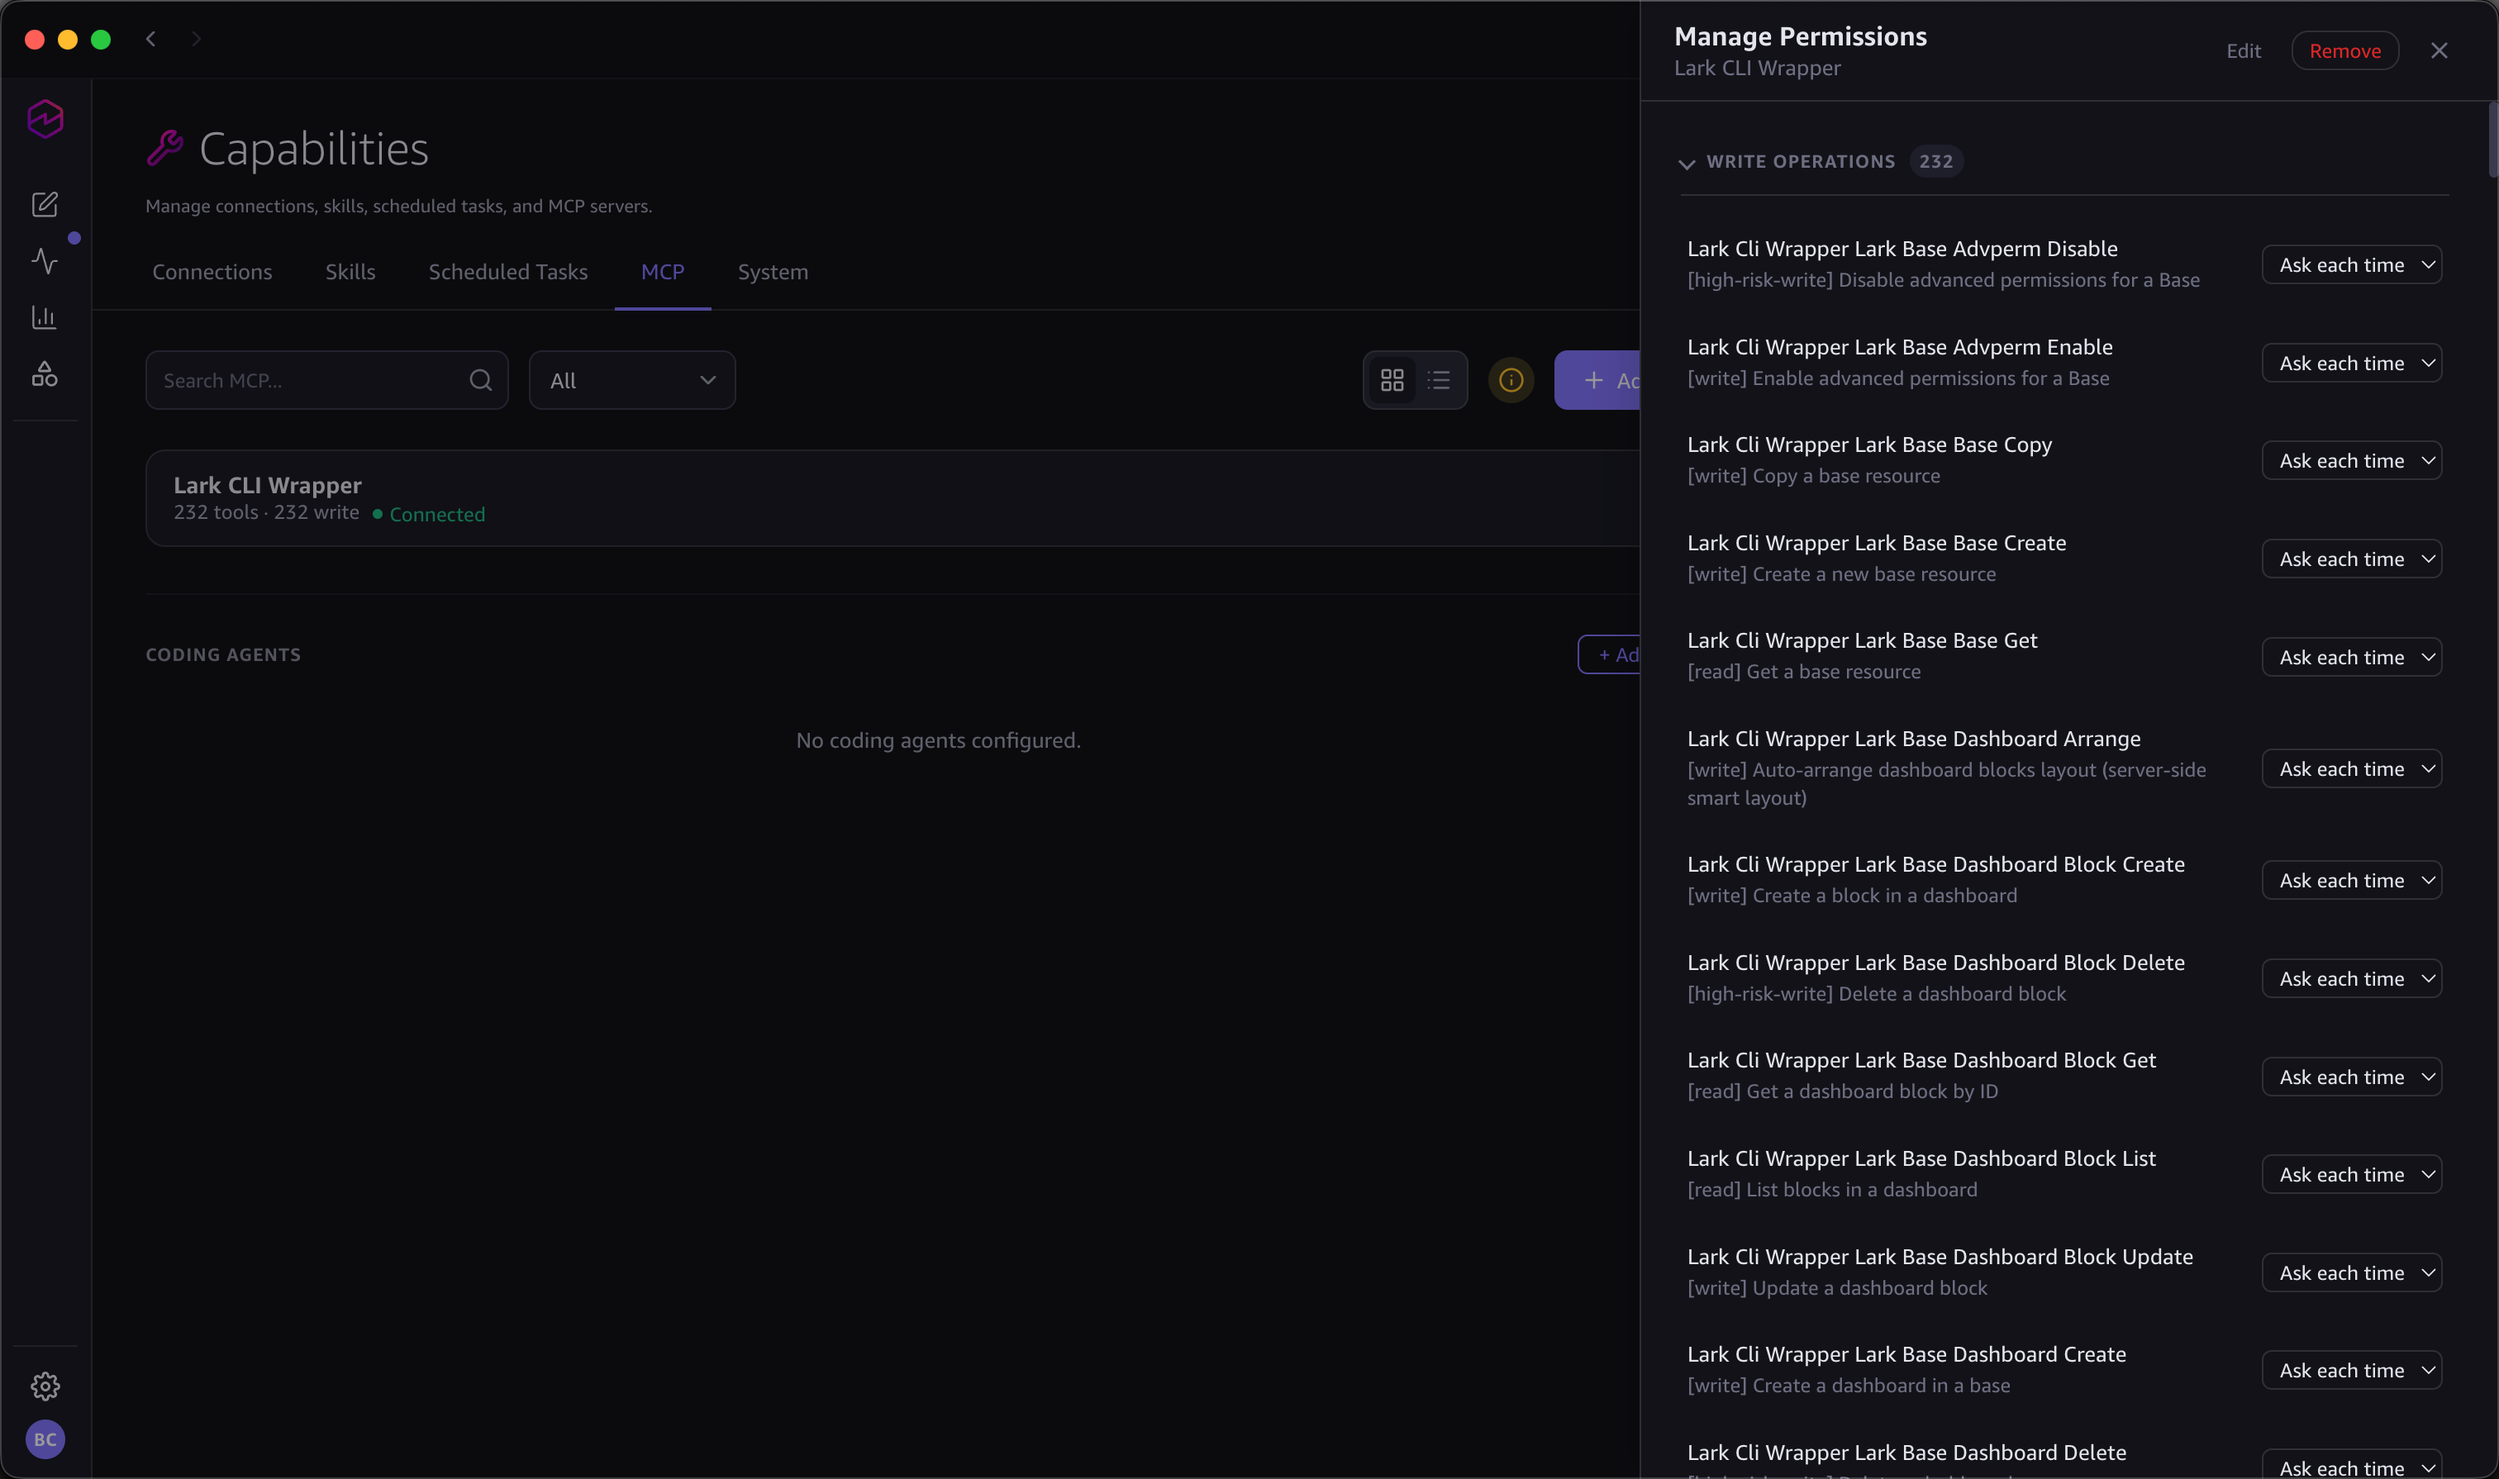
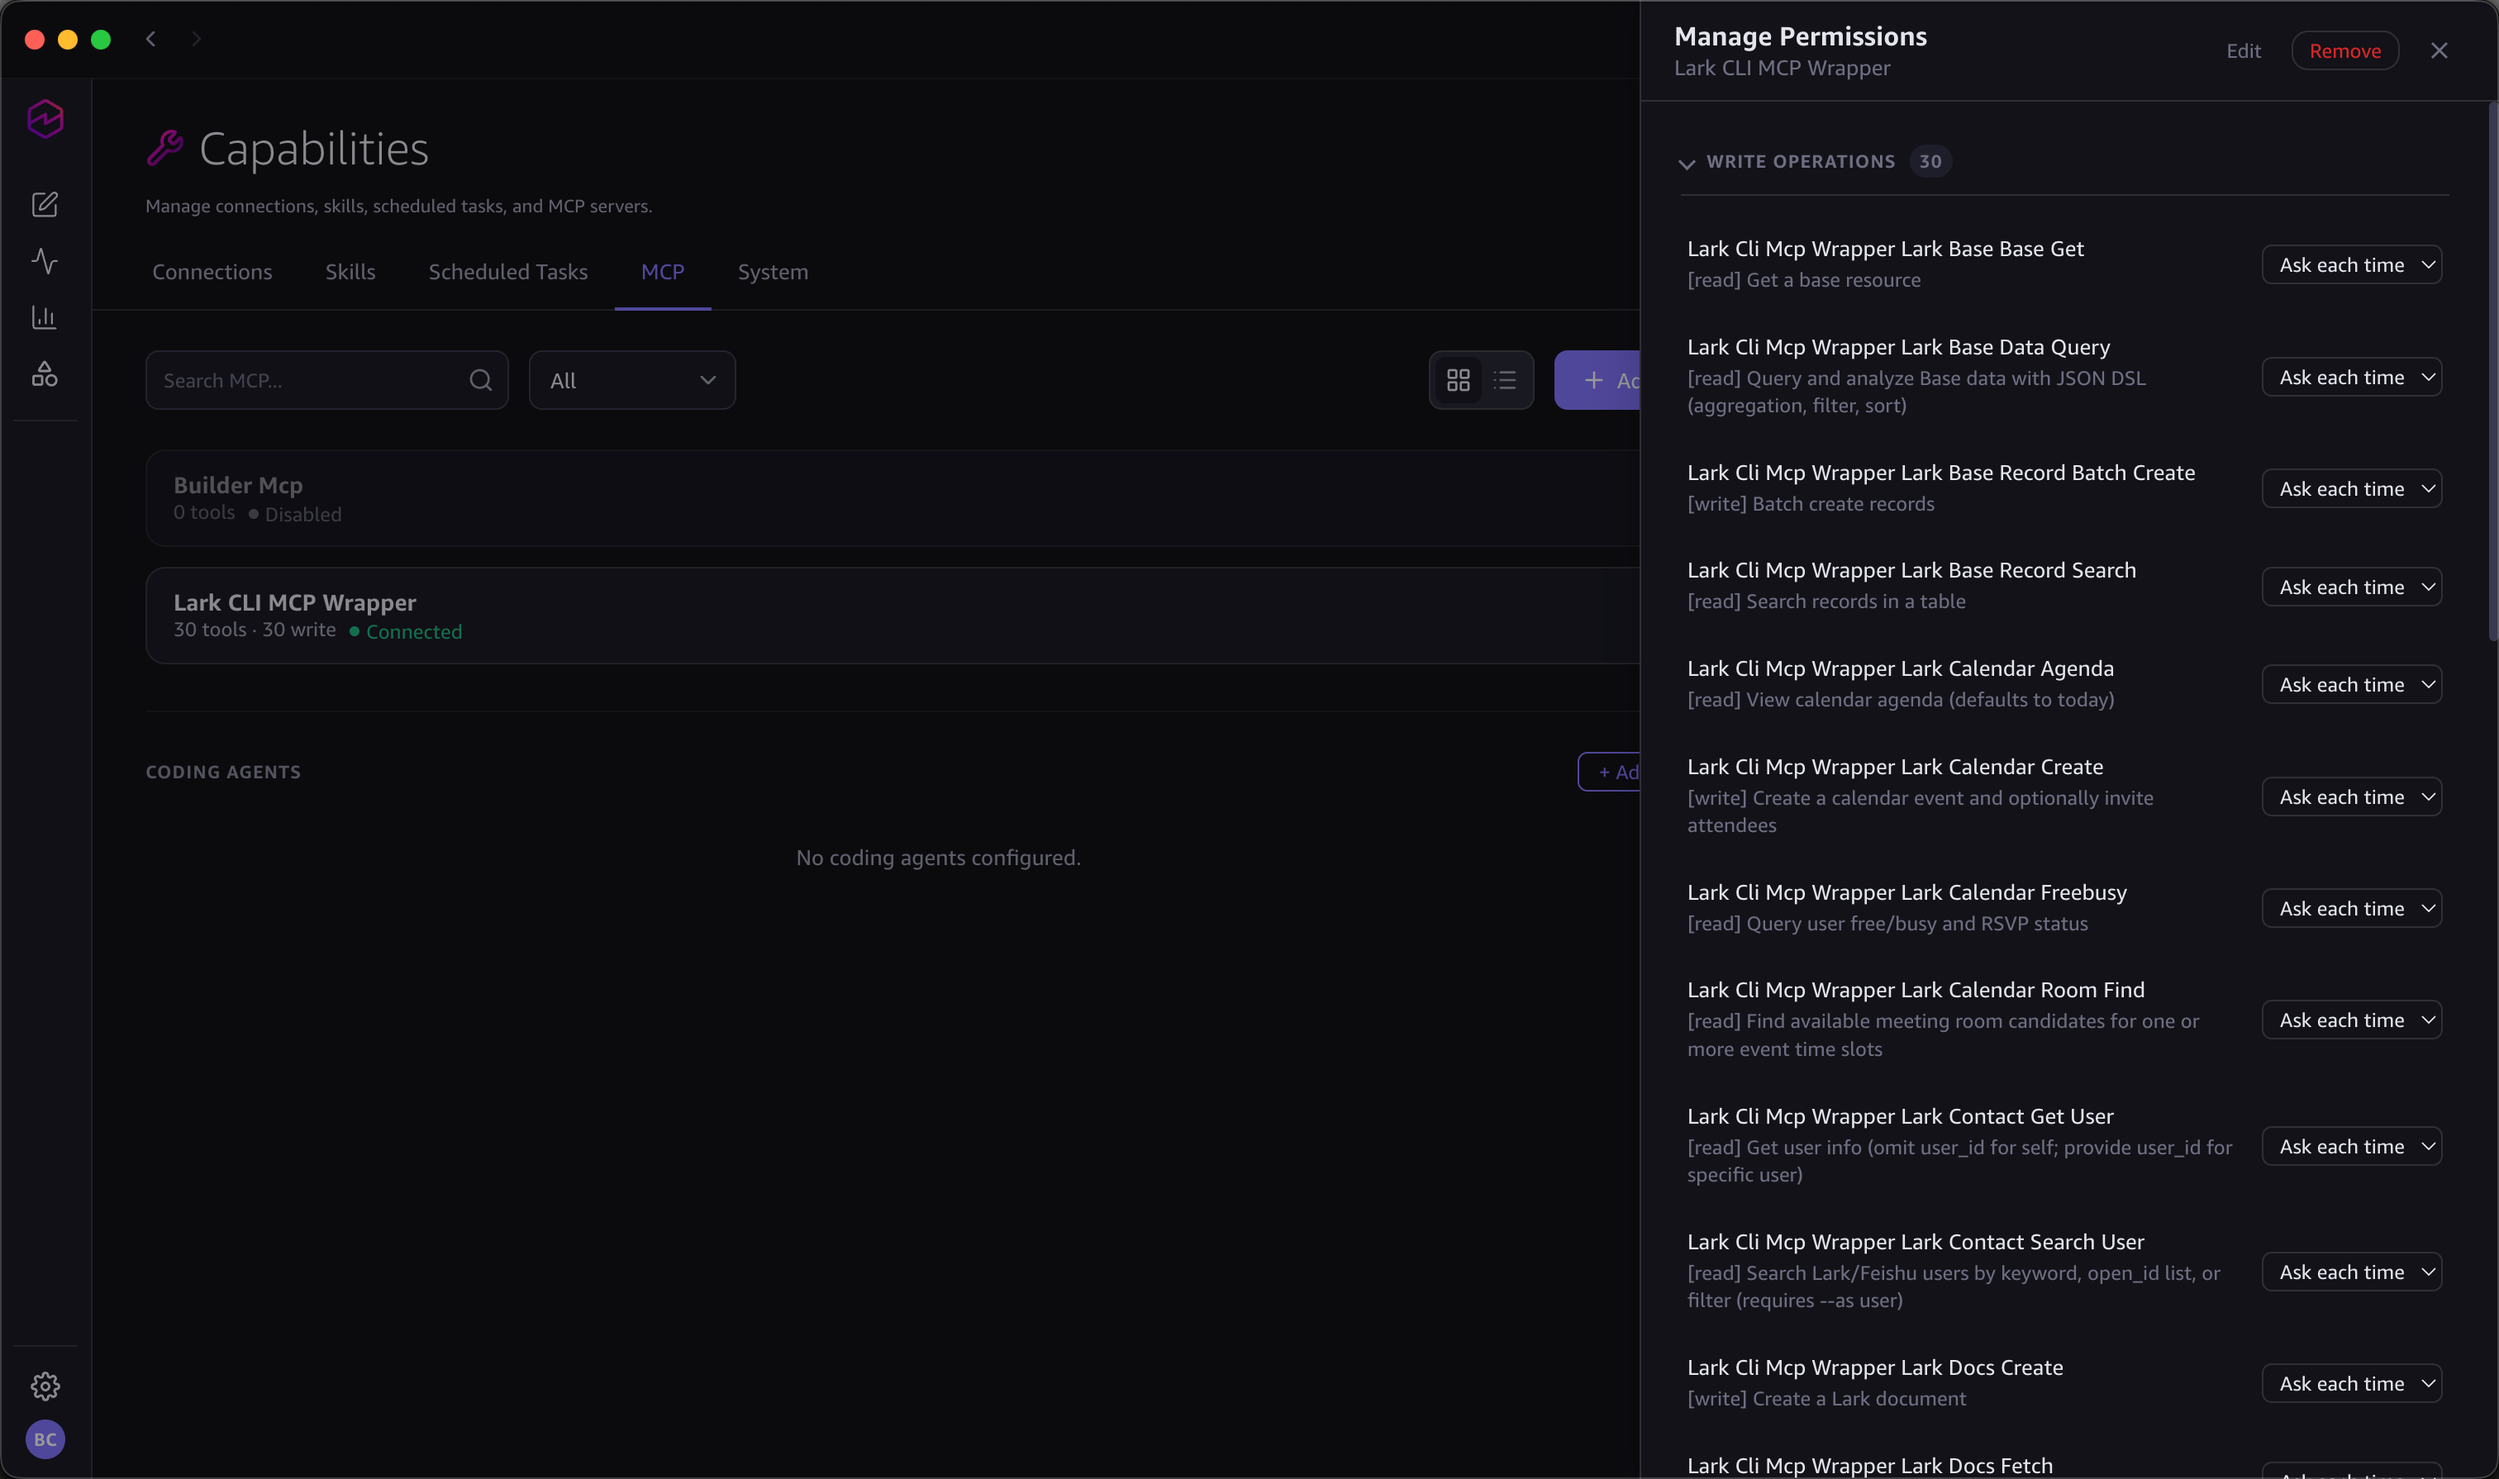
docs: README 适配分层架构 + 安装引导 + 自动适配说明

diff --git a/README.md b/README.md
@@ -1,101 +1,73 @@
 # lark-cli-mcp-wrapper
 
-将 [lark-cli](https://github.com/larksuite/cli) 的 200+ 个命令封装为 [MCP](https://modelcontextprotocol.io/) server，让 [Amazon Quick Desktop](https://aws.amazon.com/quick/desktop/) 等 AI 助手直接操作飞书/Lark。
+将 [lark-cli](https://github.com/larksuite/cli) 的 200+ 个命令封装为 [MCP](https://modelcontextprotocol.io/) stdio server，让 [Amazon Quick Desktop](https://aws.amazon.com/quick/desktop/) 等支持 MCP 的 AI 助手直接操作飞书/Lark。
 
-支持两种连接方式：
-- **Remote MCP（AgentCore）** — 集中部署，用户无需本地安装，28 个精选工具 + raw API 兜底
-- **Local MCP** — 每台机器单独运行，232 个全量工具
+28 个高频工具直接注册，其余通过 `lark_discover` + `lark_invoke` 按需调用，共 30 个 MCP tools。安装时自动扫描本地 lark-cli 生成工具定义，确保版本完全匹配。
 
-## 功能
+配置完成后，你可以用自然语言让 AI 助手：
 
 - 发送飞书消息、管理群聊
 - 创建和查询日程、预订会议室
 - 读写多维表格（Base）记录
 - 操作云文档、知识库
-- 管理任务
-- 调用任意飞书 OpenAPI（2500+，通过 `lark_raw_api`）
+- 管理审批、任务、邮件等
+- 通过 discover/invoke 调用全部 200+ 个 lark-cli 命令
 
----
+## 快速安装（仅 macOS）
 
-## 方式一：Remote MCP（AgentCore 部署）
-
-集中部署到云端，用户无需安装 Node.js 或 lark-cli，通过 Quick Desktop Remote MCP 连接即可使用。
-
-### 架构
-
-```mermaid
-graph LR
-    U1[用户 A] --> QD[Quick Desktop]
-    U2[用户 B] --> QD
-    QD -->|HTTPS| GW[AgentCore Gateway]
-    GW --> RT[AgentCore Runtime<br/>MCP Container :8000]
-    RT --> CLI[lark-cli]
-    CLI --> API[飞书 OpenAPI]
-```
-
-### 部署
+一键检查并安装所有依赖，引导完成配置：
 
 ```bash
-bash deploy/deploy.sh
+bash <(curl -fsSL https://raw.githubusercontent.com/ddpie/lark-cli-mcp-wrapper/master/scripts/setup.sh)
 ```
 
-脚本会交互式提示输入飞书 App ID / Secret（也可通过环境变量预设），然后自动完成：
-- ECR 镜像构建推送
-- Secrets Manager 密钥
-- IAM 角色
-- AgentCore Runtime（protocolConfiguration=MCP）
-- AgentCore Gateway + Target
-
-部署完成后输出 Gateway URL。
-
-### Quick Desktop 配置（Remote）
-
-Settings → Capabilities → MCP → **+ Add MCP**：
-
-| 字段 | 值 |
-|---|---|
-| Connection type | Remote |
-| Name | Lark CLI MCP Wrapper |
-| URL | `deploy.sh` 输出的 Gateway URL |
-
-### 工具说明
-
-Remote 模式暴露 28 个精选工具（Gateway 限制 30 个/页）：
-
-| 类别 | 工具 |
-|---|---|
-| IM | 发消息、搜索消息、群列表、聊天记录、搜索群 |
-| Calendar | 日程概览、创建日程、查忙闲、找会议室 |
-| Docs | 创建、获取、搜索、编辑文档 |
-| Base | 获取表、查询数据、批量创建记录、搜索记录 |
-| Drive | 搜索、上传、下载文件 |
-| Task | 创建任务、我的任务、完成任务 |
-| Contact | 搜索用户、获取用户信息 |
-| Sheets | 读取、写入单元格 |
-| **Raw API** | **调用任意飞书 OpenAPI（2500+），覆盖所有未列出的功能** |
-
-### 环境变量
-
-| 变量 | 说明 |
-|---|---|
-| `MCP_TRANSPORT` | `http` |
-| `PORT` | 默认 8000 |
-| `TOOL_MODE` | `gateway`（精选 28 工具）或不设（全量 232） |
-| `LARKSUITE_CLI_APP_ID` | 飞书应用 App ID |
-| `LARKSUITE_CLI_APP_SECRET` | 飞书应用 App Secret |
-
----
-
-## 方式二：Local MCP
-
-每台机器本地运行，无需云服务器，通过 Quick Desktop Local MCP 连接。暴露全部 232 个工具。
+## 手动安装
 
 ### 前置条件
 
-- [Node.js](https://nodejs.org/) >= 18、[Git](https://git-scm.com/downloads)
-- [`lark-cli`](https://github.com/larksuite/cli) 已安装并完成 `auth login`（详见 [lark-cli README](https://github.com/larksuite/cli#readme)）
+- [Node.js](https://nodejs.org/) >= 18
+- [Git](https://git-scm.com/downloads)
+- [`lark-cli`](https://github.com/larksuite/cli)
 
-### Quick Desktop 配置（Local）
+### macOS
+
+```bash
+brew install node git
+```
+
+### Ubuntu/Debian
+
+> 注意：`apt` 默认源的 Node.js 版本可能低于 18，推荐使用 [nvm](https://github.com/nvm-sh/nvm) 安装。
+
+```bash
+# 方式一：nvm（推荐）
+nvm install 18
+```
+
+```bash
+# 方式二：apt（需确认版本 >= 18）
+sudo apt install nodejs npm git
+```
+
+### Windows
+
+从以下地址下载安装包：[Node.js](https://nodejs.org/)、[Git](https://git-scm.com/downloads)
+
+### 安装并配置 lark-cli（所有平台）
+
+```bash
+npm install -g @larksuite/cli
+```
+
+```bash
+lark-cli auth login
+```
+
+> 执行 `auth login` 后会打开浏览器进行 OAuth 授权，需要飞书管理员预先创建好应用并配置权限。详见 [lark-cli README](https://github.com/larksuite/cli#readme)。
+
+## 使用
+
+### Amazon Quick Desktop 配置
 
 Settings → Capabilities → MCP → **+ Add MCP**：
 
@@ -107,36 +79,88 @@ Settings → Capabilities → MCP → **+ Add MCP**：
 | Arguments | `github:ddpie/lark-cli-mcp-wrapper` |
 | Timeout | `300` |
 
-> 首次运行 npx 会从 GitHub 拉取并构建，耗时约 1-2 分钟。后续使用缓存。
+> `npx github:user/repo` 会自动从 GitHub 拉取仓库并运行，无需手动 clone。首次启动需拉取和编译，Timeout 建议设为 300。
 
 <img src="images/mcp-add-config.png" width="400" alt="Add MCP 配置">
 
-连接成功后显示为 **Connected**：
+### 验证
+
+连接成功后，可以在 Capabilities → MCP 中看到 Lark CLI MCP Wrapper 显示为 **Connected**，并列出 30 个可用工具：
 
 ![MCP 连接成功](images/mcp-connected.png)
 
----
+在 Quick Desktop 对话中输入类似以下内容测试：
 
-## 从源码构建
-
-```bash
-git clone https://github.com/ddpie/lark-cli-mcp-wrapper.git
-cd lark-cli-mcp-wrapper
-npm install
-npm run generate-tools
-npm run build
+```
+帮我查一下今天的日程
 ```
 
-### 更新工具列表
+如果 MCP 连接正常，AI 会调用 lark-cli 获取你的日历信息。
 
-```bash
-npm run generate-tools && npm run build
+## 工具列表
+
+### Tier 1 高频工具（28 个，直接注册）
+
+| 类别 | 工具 |
+|---|---|
+| IM (5) | 发消息、搜索消息、群列表、聊天记录、搜索群 |
+| Calendar (4) | 日程概览、创建日程、查忙闲、找会议室 |
+| Docs (4) | 创建、获取、搜索、编辑文档 |
+| Base (4) | 获取表、查询数据、批量创建记录、搜索记录 |
+| Drive (3) | 搜索、上传、下载文件 |
+| Task (3) | 创建任务、我的任务、完成任务 |
+| Contact (2) | 搜索用户、获取用户信息 |
+| Sheets (2) | 读取、写入单元格 |
+| Mail (1) | 发送邮件 |
+
+### Meta Tools（2 个）
+
+| 工具 | 说明 |
+|---|---|
+| `lark_discover` | 按关键词或分类搜索其余所有 lark-cli 命令，返回名称 + 完整参数 schema |
+| `lark_invoke` | 执行 discover 找到的工具（传入 tool_name + args） |
+
+高频操作直接调用即可；其余操作 AI 会自动通过 discover 搜索再 invoke 执行，无需额外配置。
+
+### 示例对话
+
+**高频操作（直接调用）：**
+
+```
+帮我查一下今天的日程
+```
+```
+发一条消息给产品研发群：明天下午3点对齐需求
+```
+```
+搜一下飞书里关于"季度规划"的文档
 ```
 
-### 运行测试
+**低频操作（自动 discover → invoke）：**
+
+```
+帮我创建一个群聊，名字叫"Q3项目组"，把李四和王五拉进来
+```
+```
+转发这封邮件给 alice@company.com
+```
+```
+帮我建一个知识库空间，叫"工程文档库"
+```
+```
+查一下昨天产品评审会的会议纪要
+```
+
+## 工具列表自动适配
+
+不同版本的 lark-cli 支持的 shortcut 命令不同。安装时自动扫描本地 lark-cli 的全部命令，生成与当前版本完全匹配的工具定义。
+
+如果遇到 `Usage: lark-cli xxx [command]` 错误，说明 lark-cli 已升级但工具定义是旧的。清除 npx 缓存重新安装即可：
 
 ```bash
-npm test
+lark-cli update
+rm -rf ~/.npm/_npx
+npx github:ddpie/lark-cli-mcp-wrapper
 ```
 
 ## License
